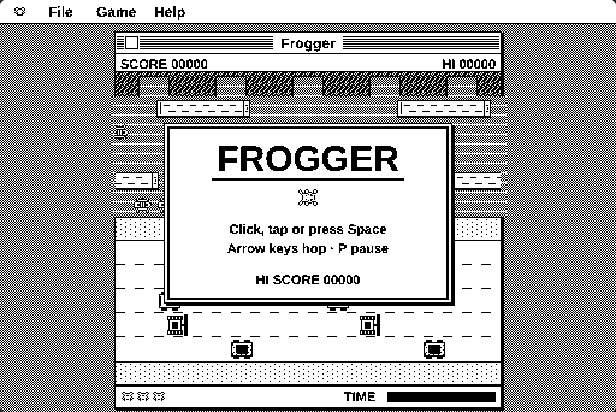
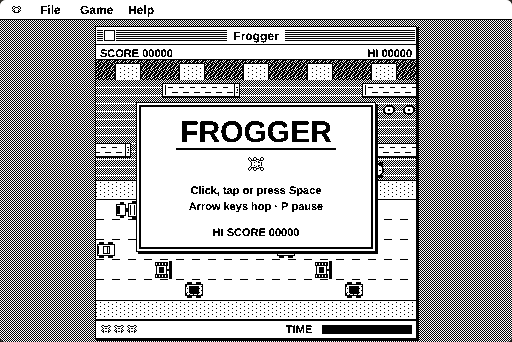
Fix cars, logs and turtles being drawn 96px left of where they really are; fairer river (dive warning, drift mid-hop, forgiving log ends); freeze traffic on death; clip water to window; refresh screenshots
Claude-Session: https://claude.ai/code/session_013eymtTFdontGPRhHEcSXaq

diff --git a/index.html b/index.html
@@ -346,11 +346,11 @@ function buildLanes(level){
 function wrapX(x){ return ((x+MARGIN)%WRAP+WRAP)%WRAP - MARGIN; }
 function turtleState(o,t){
   if(!o.dive) return 0;
-  const p=((t+o.phase)%4.2);
-  if(p<2.4) return 0;          // up
-  if(p<2.9) return 1;          // half
-  if(p<3.6) return 2;          // under
-  return 1;
+  const p=((t+o.phase)%5);
+  if(p<2.6) return 0;          // up
+  if(p<3.6) return 1;          // sinking (1 second warning, still safe)
+  if(p<4.4) return 2;          // under water: not safe
+  return 1;                    // coming back up
 }
 
 /* ---------- game state ---------- */
@@ -513,7 +513,8 @@ function update(dt){
     for(const r in lanes){ const L=lanes[r]; L.objs.forEach(o=>o.x=wrapX(o.x+L.v*dt)); }
     return;
   }
-  for(const r in lanes){ const L=lanes[r]; L.objs.forEach(o=>o.x=wrapX(o.x+L.v*dt)); }
+  // traffic freezes while the frog is dying so you can see exactly what got you
+  if(state!=='dying') for(const r in lanes){ const L=lanes[r]; L.objs.forEach(o=>o.x=wrapX(o.x+L.v*dt)); }
 
   // fly
   fly.next-=dt;
@@ -550,9 +551,10 @@ function update(dt){
     frog.x += L.v*dt;
     const c=frog.x+8;
     if(c<0||c>PW){ die('splash'); return; }
-  } else if(isRiver && L && frog.hop>0 && frog.fromRow===frog.toRow){
-    // hopping sideways on a log: drift with it
-    frog.fromX += L.v*dt; frog.toX += L.v*dt;
+  } else if(frog.hop>0){
+    // mid-hop over the river: drift with whatever the frog is visibly over
+    const hr = frog.hop<0.5 ? frog.fromRow : frog.toRow;
+    if(hr>=1 && hr<=5 && lanes[hr]){ frog.fromX += lanes[hr].v*dt; frog.toX += lanes[hr].v*dt; }
   }
   // traffic: only a real, visible overlap counts, and mid-hop we check
   // the lane the frog is actually in on screen (old lane first half, new lane second half)
@@ -569,7 +571,7 @@ function update(dt){
 function riding(L){
   const c=frog.x+8;
   for(const o of L.objs){
-    if(c>o.x+1 && c<o.x+o.len*CELL-1){
+    if(c>o.x-3 && c<o.x+o.len*CELL+3){   // a little forgiving at the ends
       if(L.kind==='turtle' && turtleState(o,clock)===2) continue;
       return o;
     }
@@ -678,7 +680,8 @@ function drawBackdrop(){
     rect(c-BAY_W/2+PX,PY+4,BAY_W,CELL-4,WHITE); ctx.fillStyle=PAT.grass; ctx.fillRect(c-BAY_W/2+PX+1,PY+6,BAY_W-2,CELL-7);
   });
   // river
-  ctx.save(); ctx.translate(Math.floor(clock*6)%8,0);
+  ctx.save(); ctx.beginPath(); ctx.rect(PX,PY+CELL,PW,CELL*5); ctx.clip();
+  ctx.translate(Math.floor(clock*6)%8,0);
   ctx.fillStyle=PAT.water; ctx.fillRect(PX-8,PY+CELL,PW+8,CELL*5);
   ctx.restore();
   // median & start (grass)
@@ -774,6 +777,7 @@ function drawVehicle(kind,x,y,len,dir){
 }
 function drawLanes(){
   clipPlay();
+  ctx.translate(PX,0);   // lane objects live in playfield coordinates, same as the frog
   for(const r in lanes){
     const L=lanes[r], y=PY+L.row*CELL;
     for(const o of L.objs){

diff --git a/README.md b/README.md
@@ -23,7 +23,7 @@ Open `index.html` in Chrome, Edge, Firefox or Safari (desktop or phone).
 - On a phone, **swipe** the screen or use the on-screen pad
 - Cross five lanes of traffic, then ride logs and turtles across the river
 - Fill all **5 bays** at the top to clear the level (+1000). Everything gets faster each level
-- **Diving turtles** sink out from under you, and you drown if you ride off the edge of the screen
+- **Diving turtles** start sinking a second before they go under, then drop out from under you, and you drown if you ride off the edge of the screen
 - Catch a **fly** in a bay for +200. Leftover time adds a bonus to every frog you bring home
 - 30 seconds per frog, 3 frogs to start, extra frog every 10,000 points
 - The **Game** menu has Sound and Easy / Normal / Hard
